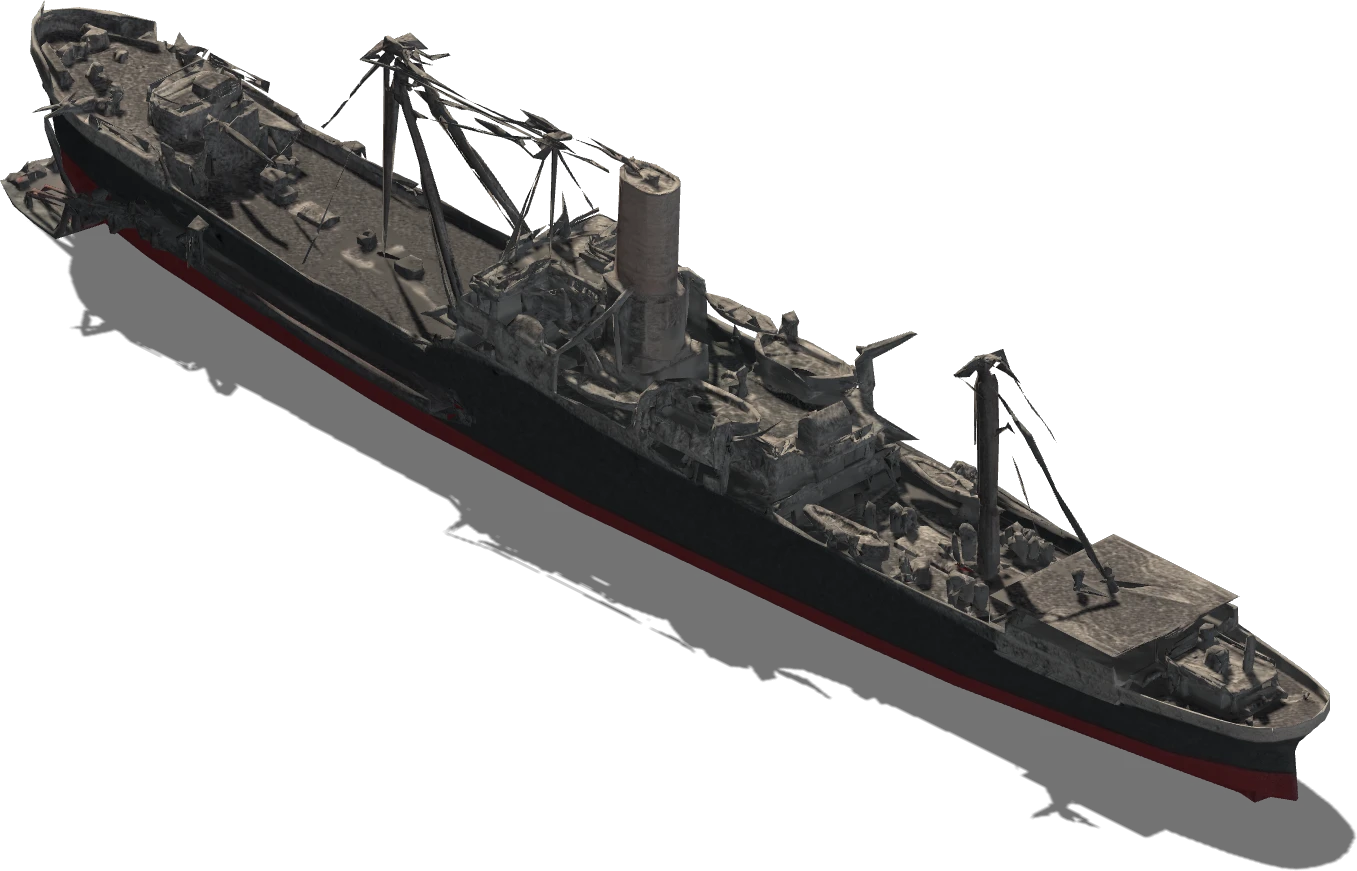
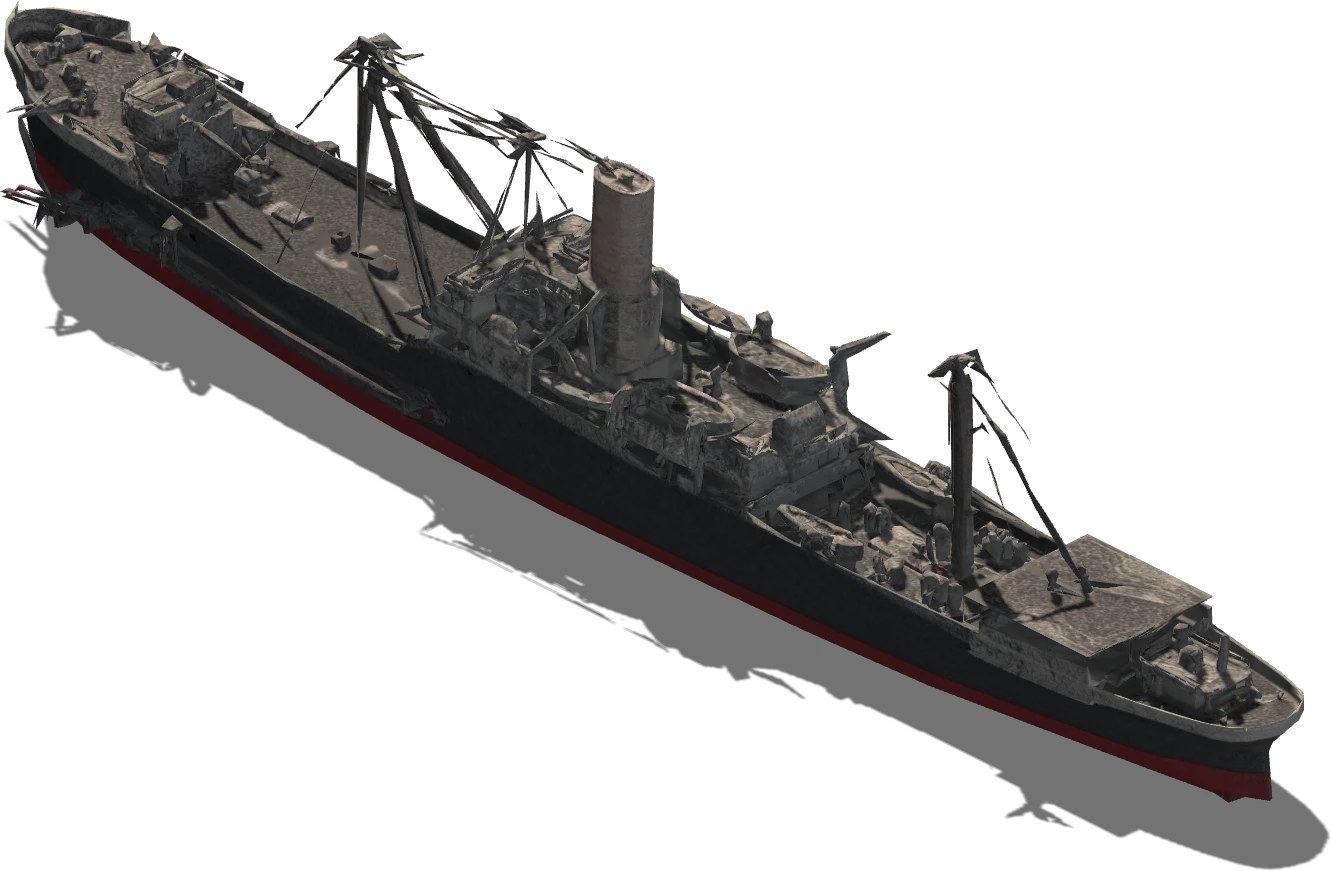
River Clyde: no slab of ground under her bow; she comes in at one steady speed
The ship is re-rendered without the slab of ground baked into the model under her bow (render-glb takes a
--cut of boxes in the model's coordinates whose triangles are left out). In the opening she steams in at a
constant speed from beyond the edge of the map (no more slowing, then sliding the last tiles), striking the
beach about as the 'runs aground' line comes up; the crash is played as she strikes (its recording starts
2.3 s before the crash) and the screen shudders.

Claude-Session: https://claude.ai/code/session_01QRLYjet5i3xPK5hPmw42NL

diff --git a/src/campaign.js b/src/campaign.js
@@ -797,7 +797,7 @@ export const LEVELS = [
       { who: 'Hasan', text: 'Perhaps the captain has been drinking.', img: 'assets/art/story-hasan.webp' },
       { who: 'Mehmet', text: 'Wine? Isn\'t that forbidden?', img: 'assets/art/story-mehmet.webp' },
       { who: 'Hasan', text: 'For us, Mehmet. Not for the British.', img: 'assets/art/story-hasan.webp' },
-      { who: '', text: 'The River Clyde runs aground on the beach with a tremendous crash.', sound: 'grounding', hold: 4.5 }, // (on the map she grinds up onto the sand; her keel grinding, the crash, the groaning plates)
+      { who: '', text: 'The River Clyde runs aground on the beach with a tremendous crash.', hold: 4.5 }, // (on the map she runs up onto the sand: openingScene plays the crash as she strikes)
       { who: 'Mehmet', text: 'Allah! What a terrible landing!', img: 'assets/art/story-mehmet.webp' },
       { who: 'Hasan', text: 'See? That\'s why drinking is forbidden.', img: 'assets/art/story-hasan.webp' },
       { who: '', text: 'Out in the bay, the boats are putting off from the fleet.', img: 'assets/art/story-helles-fleet.webp', wide: true },
@@ -811,28 +811,24 @@ export const LEVELS = [
     openingScene(s, o) {
       const c = s.campaign, b = s.buildings && s.buildings[0], fin = c.clyde;
       if (!b || !fin) return;
-      const IN = 5, GROUND = 10, NEAR = 3, d = fin.d;
+      const IN = 5, TRIP = 22, d = fin.d; // (her run in takes about as long as the lines of dialogue before she grounds)
       // she starts just beyond the edge of the map (her bow a tile past its last tile of sea), so she comes into view at once
       if (c.clydeFar === undefined) {
         const { map } = s, y = Math.floor(fin.y); let edge = Math.floor(fin.x);
         for (let x = Math.floor(fin.x); x >= 0 && x < map.w; x += d) { const t = map.tiles[y * map.w + x]; if (t && !t.off) edge = x; }
-        c.clydeFar = Math.max(NEAR + 10, Math.abs(edge + 0.5 - fin.x) + b.hx + 1);
+        c.clydeFar = Math.max(10, Math.abs(edge + 0.5 - fin.x) + b.hx + 1);
       }
-      const FAR = c.clydeFar;
+      const FAR = c.clydeFar, v = FAR / TRIP; // (tiles a second: one steady speed all the way in)
       const place = (x) => { const dx = x - b.x; if (!dx) return; b.x = x; const mg = s.units.find((u) => u.id === c.shipGun); if (mg) mg.x += dx; };
       if (o.done) { place(fin.x); return; }
-      if (o.i < IN) place(fin.x + d * FAR); // still out in the bay with the fleet
-      else if (o.i < GROUND) { // under way, slowing as she nears the shore
-        if (o.start && o.i === IN) c.clydeRun = 0;
-        c.clydeRun = (c.clydeRun || 0) + (o.dt || 0);
-        const k = Math.min(1, c.clydeRun / 20), e = 1 - (1 - k) ** 1.6;
-        place(fin.x + d * (FAR - (FAR - NEAR) * e));
-      } else if (o.i === GROUND) { // up the sand: the last few tiles in a second, the whole ship shuddering
-        if (o.start) { c.clydeFrom = (b.x - fin.x) * d; o.shake(9); }
-        const k = Math.min(1, o.t / 1.2);
-        place(fin.x + d * c.clydeFrom * (1 - k * (2 - k)));
-      } else place(fin.x);
-      if (o.i >= IN && o.i <= GROUND) o.look(b.x - d * 4, b.y + 1, 1.2); // the camera rides along off her bow
+      if (o.i < IN) { place(fin.x + d * FAR); return; } // still out in the bay with the fleet
+      // under way from the line where one ship leaves the others, at a steady speed until she strikes the beach
+      c.clydeRun = (c.clydeRun || 0) + (o.dt || 0);
+      const left = Math.max(0, FAR - v * c.clydeRun);
+      place(fin.x + d * left);
+      if (!c.clydeHeard && left <= v * 2.3) { c.clydeHeard = true; o.sound('grounding'); } // (the recording's crash comes 2.3 s in)
+      if (left === 0 && !c.clydeStruck) { c.clydeStruck = true; o.shake(9); }
+      if (!c.clydeStruck || o.i <= IN + 5) o.look(b.x - d * 4, b.y + 1, 1.2); // the camera rides along off her bow
     },
     works: 'light',
     history: 'Dawn, 25 April 1915. The Allied fleet has failed to force the Dardanelles; now the army is to land at the tip of the Gallipoli peninsula and take the forts from behind. At V Beach, a little sandy bay below the ruined fortress of Sedd el Bahr, a company of the 26th Regiment holds the slopes above the sand, with wire strung along the beach and out into the shallows. Out in the bay the British are coming in, boat after boat, and an old collier, the River Clyde, is being run aground with two thousand men hidden inside. The warships\' guns will pound your trenches. Hold the beach until nightfall.',
@@ -884,7 +880,7 @@ export const LEVELS = [
       noSquares(map);
       // ---- the River Clyde, run aground at the eastern end of the beach, her bow on the sand
       const cy = M + 4, cx = coast(cy) + d * 9.8; // (a big ship: 20 tiles long)
-      state.buildings = [{ img: 'assets/art/ship-river-clyde.webp', ax: 671, ay: 487, k: 0.5, x: cx + 0.5, y: cy + 0.5, hx: 9.9, hy: 1.45, name: 'The River Clyde' }];
+      state.buildings = [{ img: 'assets/art/ship-river-clyde.webp', ax: 645, ay: 487, k: 0.5, x: cx + 0.5, y: cy + 0.5, hx: 9.9, hy: 1.45, name: 'The River Clyde' }];
       state.campaign.clyde = { x: cx + 0.5, y: cy + 0.5, d }; // where she runs aground (the opening brings her in from the bay)
       for (const t of map.tiles) if (Math.abs(t.x + 0.5 - state.buildings[0].x) <= 9.9 && Math.abs(t.y + 0.5 - state.buildings[0].y) <= 1.45) { t.block = 1; t.wire = 0; }
       // the enemy's 'headquarters' is the ship: his men come out of her sally ports (it cannot be taken)

diff --git a/tools/render-glb/render.html b/tools/render-glb/render.html
@@ -8,10 +8,23 @@ const L = new THREE.Vector3(-0.38, -0.62, 0.69).normalize(); // the game's sun (
 let model;
 window.load = async (f) => { model = (await new GLTFLoader().loadAsync(f)).scene; window.model = model; return true; };
 // render: yaw (rad), S = tiles per model unit, P = px per tile; returns { url, ax, ay } (ax, ay: where the model's centre on the ground lands)
-window.renderTown = ({ yaw, S, P, marker, ground = 0, tread = null }) => {
+window.renderTown = ({ yaw, S, P, marker, ground = 0, tread = null, cut = null }) => {
   const scene = new THREE.Scene();
   const root = new THREE.Group(); scene.add(root);
   const m = model.clone(true);
+  // cut: boxes in the model's own coordinates ([[x0, y0, z0], [x1, y1, z1]], ...) whose triangles are left out
+  // (stray geometry baked into a model, e.g. a slab of ground stuck to a ship's bow)
+  if (cut) m.traverse((o) => {
+    if (!o.isMesh) return;
+    const g = o.geometry = o.geometry.clone(), pos = g.attributes.position;
+    const idx = g.index ? Array.from(g.index.array) : Array.from({ length: pos.count }, (_, i) => i), keep = [];
+    const inBox = (x, y, z) => cut.some(([a, b]) => x >= a[0] && x <= b[0] && y >= a[1] && y <= b[1] && z >= a[2] && z <= b[2]);
+    for (let i = 0; i < idx.length; i += 3) {
+      let cx = 0, cy = 0, cz = 0; for (let k = 0; k < 3; k++) { cx += pos.getX(idx[i + k]); cy += pos.getY(idx[i + k]); cz += pos.getZ(idx[i + k]); }
+      if (!inBox(cx / 3, cy / 3, cz / 3)) keep.push(idx[i], idx[i + 1], idx[i + 2]);
+    }
+    g.setIndex(keep);
+  });
   m.rotation.x = Math.PI / 2; // glTF Y up -> Z up
   const holder = new THREE.Group(); holder.add(m); holder.rotation.z = yaw; holder.scale.setScalar(S);
   root.add(holder);

diff --git a/index.html b/index.html
@@ -17,10 +17,10 @@
       "./src/ai.js": "./src/ai.js?v=3e8e2a90",
       "./src/atmosphere.js": "./src/atmosphere.js?v=e3ff2b7a",
       "./src/audio.js": "./src/audio.js?v=d87f9739",
-      "./src/campaign.js": "./src/campaign.js?v=3f24c910",
+      "./src/campaign.js": "./src/campaign.js?v=048cb826",
       "./src/config.js": "./src/config.js?v=71dc84ee",
       "./src/game.js": "./src/game.js?v=c93f853f",
-      "./src/main.js": "./src/main.js?v=8b453c94",
+      "./src/main.js": "./src/main.js?v=f683e4fd",
       "./src/map.js": "./src/map.js?v=3ed5bbdb",
       "./src/model-view.js": "./src/model-view.js?v=214a5b12",
       "./src/path.js": "./src/path.js?v=23c490f7",
@@ -347,6 +347,6 @@
       document.getElementById('boot-reload').onclick = function () { location.reload(); };
     }, 20000);
   </script>
-  <script type="module" src="src/main.js?v=8b453c94"></script>
+  <script type="module" src="src/main.js?v=f683e4fd"></script>
 </body>
 </html>

diff --git a/src/main.js b/src/main.js
@@ -823,7 +823,7 @@ function playOpening(state, lines, done, scene = null) {
   const r = renderer;
   const look = (x, y, z) => { const w = iso(x, y); const tx = r.M * w.x, ty = w.y, k = 0.08; r.cam.x += (tx - r.cam.x) * k; r.cam.y += (ty - r.cam.y) * k; r.cam.zoom += (z - r.cam.zoom) * k; r.clampCam(); };
   const shake = (v) => { r.atmo.shake = Math.max(r.atmo.shake, v); };
-  const play = (o) => { if (scene) scene(state, { look, shake, ...o }); };
+  const play = (o) => { if (scene) scene(state, { look, shake, sound: (n) => sound.play(n, 1), ...o }); };
   const home = { x: r.cam.x, y: r.cam.y, z: r.cam.zoom }; // (where the camera goes back to when the scene is over)
   const box = document.getElementById('story');
   const who = box.querySelector('.who'), line = box.querySelector('.line'), hint = box.querySelector('.hint'), pic = box.querySelector('.pic');

diff --git a/tools/render-glb/README.md b/tools/render-glb/README.md
@@ -30,7 +30,7 @@ battle 1 in `src/campaign.js`), whose tiles inside the footprint are then made i
 
 | sprite | model | command options |
 | --- | --- | --- |
-| `ship-river-clyde.webp` | Harbor Steamship (the River Clyde) | `--yaw 1.5708 --scale 10.6` |
+| `ship-river-clyde.webp` | Harbor Steamship (the River Clyde) | `--yaw 1.5708 --scale 10.6 --cut '[[[-1,-1,-1],[-0.79,-0.185,1]]]'` (without the slab of ground stuck under her bow) |
 
 ## Brusilov's Storm (battle 3)
 
